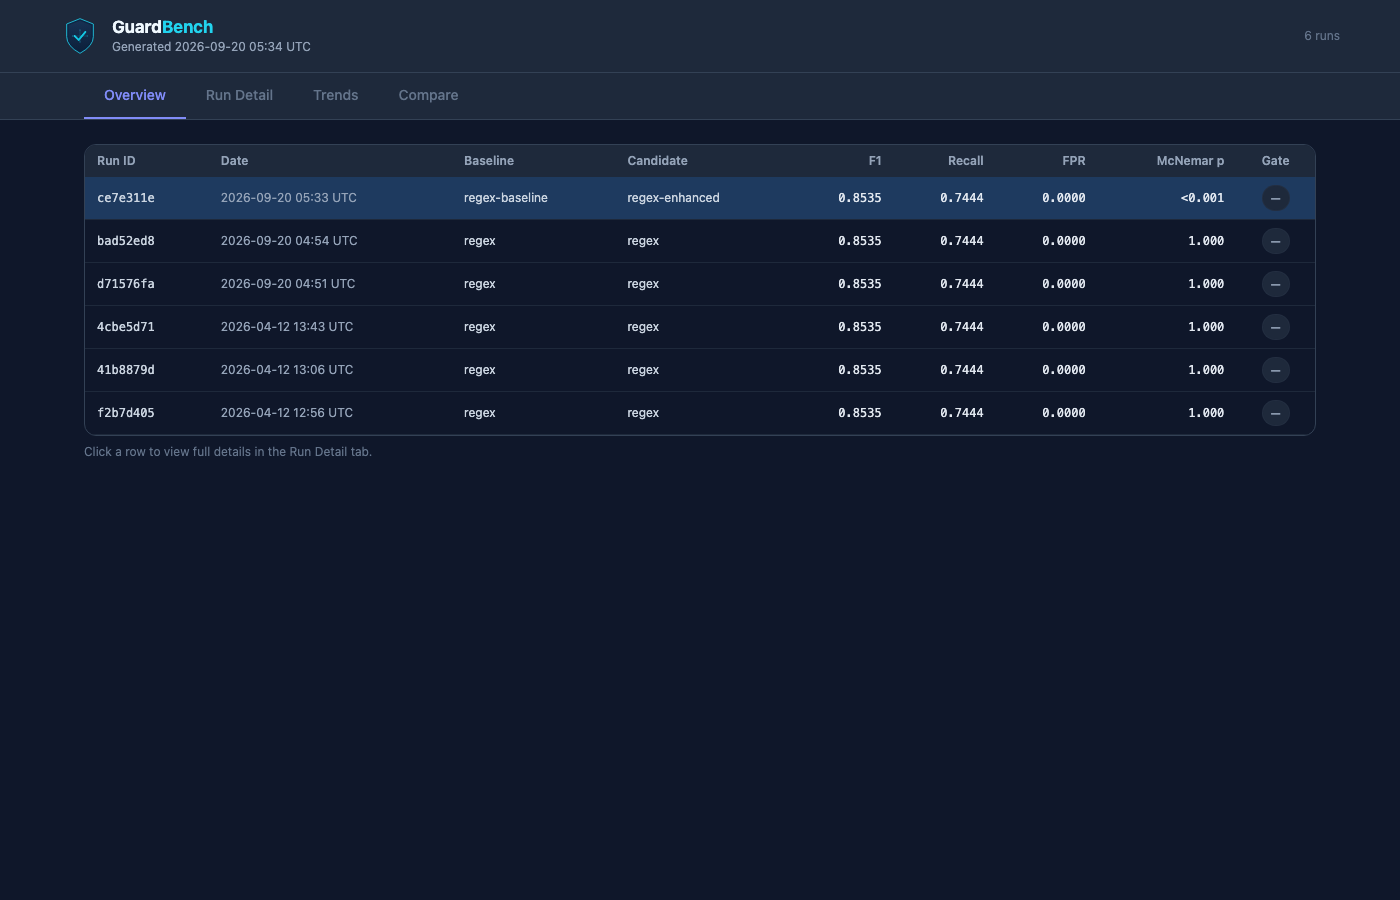
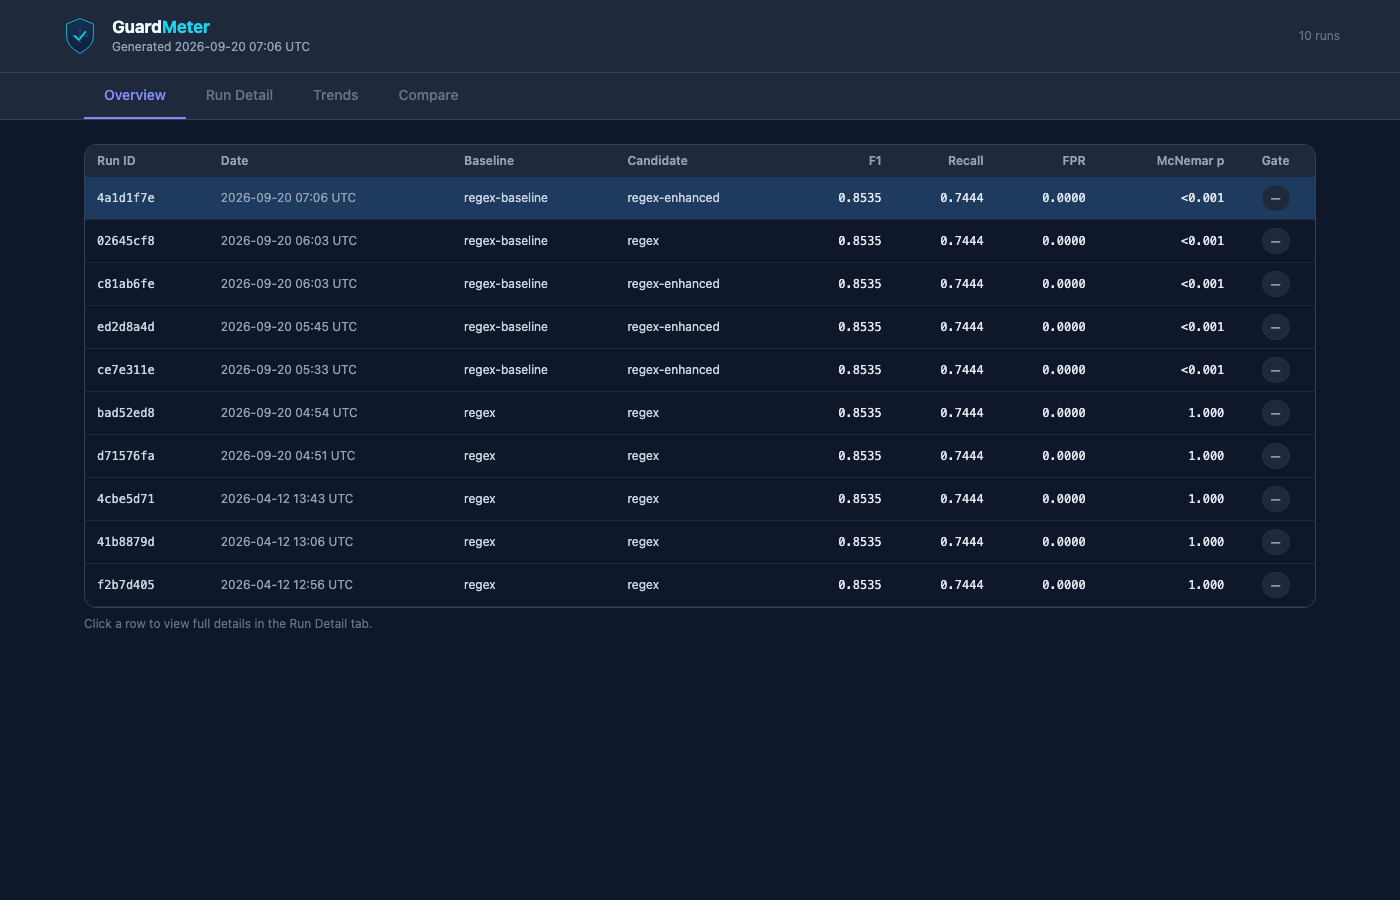
docs: GuardMeter naming throughout; 0.3.0 changelog; refreshed screenshot
Rename all guardbench/sea-guard references in README, CONTRIBUTING,
CLAUDE.md, and .gitignore to guardmeter/GuardMeter; point the README
badges and image URLs at samvardani/guardmeter. Add the 'Formerly
published as sea-guard' note and keep the unrelated JRC GuardBench
references intact. Fold everything since 0.2.1 into a 0.3.0 changelog
entry and re-capture the dashboard screenshot with the GuardMeter
header.

diff --git a/README.md b/README.md
@@ -1,27 +1,27 @@
-<p align="center"><img src="https://raw.githubusercontent.com/samvardani/GuardBench/main/branding/guardbench-wordmark.svg" alt="GuardBench" width="440"/></p>
+<p align="center"><img src="https://raw.githubusercontent.com/samvardani/guardmeter/main/branding/guardmeter-wordmark.svg" alt="GuardMeter" width="440"/></p>
 
-<p align="center"><img src="https://raw.githubusercontent.com/samvardani/GuardBench/main/docs/images/dashboard.png" alt="GuardBench dashboard" width="800"/></p>
+<p align="center"><img src="https://raw.githubusercontent.com/samvardani/guardmeter/main/docs/images/dashboard.png" alt="GuardMeter dashboard" width="800"/></p>
 
-# sea-guard — AI Safety Guard Evaluation Framework
+# GuardMeter — AI Safety Guard Evaluation Framework
 
-[![CI](https://github.com/samvardani/GuardBench/actions/workflows/guardbench-eval.yml/badge.svg)](https://github.com/samvardani/GuardBench/actions)
-[![PyPI](https://img.shields.io/pypi/v/sea-guard)](https://pypi.org/project/sea-guard/)
+[![CI](https://github.com/samvardani/guardmeter/actions/workflows/ci.yml/badge.svg)](https://github.com/samvardani/guardmeter/actions)
+[![PyPI](https://img.shields.io/pypi/v/guardmeter)](https://pypi.org/project/guardmeter/)
 [![Python 3.11+](https://img.shields.io/badge/python-3.11+-blue.svg)](https://www.python.org/)
 [![License: MIT](https://img.shields.io/badge/License-MIT-green.svg)](LICENSE)
 
-sea-guard compares two content-safety guards — a **baseline** and a **candidate** — on a labeled dataset and produces per-slice metrics, an HTML report, an interactive dashboard, and a pass/fail CI gate. It's for developers and ML engineers who ship a safety classifier and need to catch regressions — per category, language, and attack type — before they merge.
+GuardMeter compares two content-safety guards — a **baseline** and a **candidate** — on a labeled dataset and produces per-slice metrics, an HTML report, an interactive dashboard, and a pass/fail CI gate. It's for developers and ML engineers who ship a safety classifier and need to catch regressions — per category, language, and attack type — before they merge.
 
 ---
 
 ## 30-second demo
 
-On a fresh `pip install sea-guard`, these commands run verbatim:
+On a fresh `pip install guardmeter`, these commands run verbatim:
 
 ```bash
-guardbench init
-guardbench compare --baseline regex-baseline --candidate regex-enhanced --dataset dataset/sample.csv
-guardbench gate --config gate.json --run latest
-guardbench dashboard --open
+guardmeter init
+guardmeter compare --baseline regex-baseline --candidate regex-enhanced --dataset dataset/sample.csv
+guardmeter gate --config gate.json --run latest
+guardmeter dashboard --open
 ```
 
 `init` writes `gate.json` and `dataset/sample.csv` into the current directory. `compare` evaluates both guards and stores the run. `gate` checks the latest run against `gate.json` and exits non-zero on failure. `dashboard` builds `report/dashboard.html` (`--open` launches your browser; omit it or pass `--no-open` in CI).
@@ -30,11 +30,11 @@ guardbench dashboard --open
 
 ## How it works
 
-**Baseline vs candidate.** You give sea-guard two guards. The baseline is your current behavior; the candidate is the change you're evaluating. Every metric is reported for both so you can see whether the candidate actually improved things.
+**Baseline vs candidate.** You give GuardMeter two guards. The baseline is your current behavior; the candidate is the change you're evaluating. Every metric is reported for both so you can see whether the candidate actually improved things.
 
 **Strict vs lenient policy.** Each dataset row is labeled `benign`, `borderline`, or `unsafe`. Under the **strict** policy a `borderline` row counts as something the guard *should* flag (positive); under the **lenient** policy `borderline` counts as benign (negative). Both policies are always computed; the dashboard has a toggle, and the gate/McNemar test use strict by default.
 
-**Slices.** Aggregate numbers hide regressions. sea-guard computes recall, FPR, precision, F1 and latency for every `(category × language)` slice, and separately for every `attack_type` slice, so a drop confined to (say) Farsi violence or leetspeak-obfuscated prompts is visible.
+**Slices.** Aggregate numbers hide regressions. GuardMeter computes recall, FPR, precision, F1 and latency for every `(category × language)` slice, and separately for every `attack_type` slice, so a drop confined to (say) Farsi violence or leetspeak-obfuscated prompts is visible.
 
 **Significance and confidence.** A McNemar test on the paired predictions tells you whether the baseline↔candidate difference is real or noise. Recall and FPR come with Wilson score confidence intervals so small slices aren't over-interpreted.
 
@@ -42,7 +42,7 @@ guardbench dashboard --open
 
 ## CI gate
 
-`gate.json` is a machine-readable safety policy you check into version control. `guardbench gate` loads a stored run and fails the build if any threshold is breached.
+`gate.json` is a machine-readable safety policy you check into version control. `guardmeter gate` loads a stored run and fails the build if any threshold is breached.
 
 ```json
 {
@@ -79,14 +79,14 @@ The per-slice overrides in the shipped `gate.json` reflect the known limits of t
 GitHub Actions:
 
 ```yaml
-- name: Install sea-guard
-  run: pip install sea-guard
+- name: Install guardmeter
+  run: pip install guardmeter
 - name: Evaluate
-  run: guardbench compare --baseline regex-baseline --candidate ${{ env.CANDIDATE_GUARD }} --dataset dataset/sample.csv
+  run: guardmeter compare --baseline regex-baseline --candidate ${{ env.CANDIDATE_GUARD }} --dataset dataset/sample.csv
 - name: Report
-  run: guardbench report --run latest
+  run: guardmeter report --run latest
 - name: Safety gate
-  run: guardbench gate --config gate.json --run latest   # exits 1 on regression
+  run: guardmeter gate --config gate.json --run latest   # exits 1 on regression
 - name: Upload report
   uses: actions/upload-artifact@v4
   with:
@@ -103,14 +103,14 @@ GitHub Actions:
 | `regex-baseline` | built-in | Simple keyword-matching profile — the weak baseline to compare against |
 | `regex-enhanced` | built-in | Expanded patterns, obfuscation detection, Farsi coverage |
 | `regex` | built-in | Alias of `regex-enhanced` (kept for backward compatibility) |
-| `openai` | `pip install sea-guard[llm]` + `OPENAI_API_KEY` | OpenAI Moderation API (experimental — see below) |
+| `openai` | `pip install guardmeter[llm]` + `OPENAI_API_KEY` | OpenAI Moderation API (experimental — see below) |
 | `llamaguard` | HuggingFace `transformers` or an HTTP endpoint | Llama Guard 3, local pipeline or hosted API (experimental — see below) |
 
 ### Write your own guard
 
 ```python
-from guardbench.core.guard import Guard, GuardResult
-from guardbench.core.registry import register
+from guardmeter.core.guard import Guard, GuardResult
+from guardmeter.core.registry import register
 
 class MyGuard(Guard):
     name = "my-guard"
@@ -128,9 +128,9 @@ register("my-guard", MyGuard)  # now usable as --candidate my-guard
 
 ## Dashboard & report
 
-`guardbench report --run latest` writes an HTML report for a single run (baseline vs candidate cards with Wilson CIs, category×language and attack-type slice tables, a real candidate threshold-sweep chart, and per-sample latency charts). It also mentions an informational regulatory mapping — see the note under *Experimental*.
+`guardmeter report --run latest` writes an HTML report for a single run (baseline vs candidate cards with Wilson CIs, category×language and attack-type slice tables, a real candidate threshold-sweep chart, and per-sample latency charts). It also mentions an informational regulatory mapping — see the note under *Experimental*.
 
-`guardbench dashboard` builds an interactive multi-run dashboard (`report/dashboard.html`), also auto-rebuilt on every `report`. Four tabs:
+`guardmeter dashboard` builds an interactive multi-run dashboard (`report/dashboard.html`), also auto-rebuilt on every `report`. Four tabs:
 
 - **Overview** — run history table with F1, recall, FPR, McNemar p-value and gate badges. Click a row to drill in.
 - **Run Detail** — baseline vs candidate metric cards, category×language and attack-type slice tables, and a sample-results table (first 200 rows). Strict/Lenient toggle.
@@ -143,9 +143,9 @@ register("my-guard", MyGuard)  # now usable as --candidate my-guard
 
 These features work but require API keys or extra dependencies and have limited automated test coverage. Treat them as advisory:
 
-- **LLM-as-judge** (`guardbench/judge/`) — uses Claude or an OpenAI model as a second opinion on predictions. Available through the Python API only (no CLI subcommand); needs a provider API key.
-- **`openai` guard** — calls the OpenAI Moderation API; needs `sea-guard[llm]` and `OPENAI_API_KEY`.
-- **`llamaguard` guard** — runs Llama Guard 3 via a local `transformers` pipeline or an HTTP endpoint; needs `sea-guard[hf]` or a hosted endpoint and key.
+- **LLM-as-judge** (`guardmeter/judge/`) — uses Claude or an OpenAI model as a second opinion on predictions. Available through the Python API only (no CLI subcommand); needs a provider API key.
+- **`openai` guard** — calls the OpenAI Moderation API; needs `guardmeter[llm]` and `OPENAI_API_KEY`.
+- **`llamaguard` guard** — runs Llama Guard 3 via a local `transformers` pipeline or an HTTP endpoint; needs `guardmeter[hf]` or a hosted endpoint and key.
 - **Regulatory mapping (informational).** The HTML report includes a table mapping a run's metrics to regulatory themes (e.g. EU AI Act articles, NIST AI RMF). It is an informational aid for your own documentation, **not** a compliance certification or legal assessment.
 
 ---
@@ -156,9 +156,9 @@ These features work but require API keys or extra dependencies and have limited 
 python3.13 -m venv .venv
 source .venv/bin/activate      # Windows: .venv\Scripts\activate
 pip install -e ".[dev]"
-ruff check guardbench tests
-mypy guardbench
-pytest tests/guardbench/ -q
+ruff check guardmeter tests
+mypy guardmeter
+pytest tests/guardmeter/ -q
 ```
 
 > **Note:** macOS users with Homebrew Python must use a virtual environment (Homebrew enforces PEP 668).
@@ -168,6 +168,8 @@ pytest tests/guardbench/ -q
 ## Not affiliated with
 
 This project is unrelated to the JRC "GuardBench" toxicity-benchmark library at [github.com/AmenRa/guardbench](https://github.com/AmenRa/guardbench). Same name, different project.
+
+Formerly published as `sea-guard` (versions 0.1–0.2, import name `guardbench`). Renamed in 0.3.0 to avoid confusion with the unrelated JRC GuardBench benchmark.
 
 ---
 
@@ -183,9 +185,9 @@ MIT — see [LICENSE](LICENSE).
 
 Logo assets are in the `branding/` directory.
 
-- `guardbench-logo.svg` — shield mark (favicon, PyPI, GitHub avatar)
-- `guardbench-wordmark.svg` — full lockup with tagline
-- `guardbench-social-card.svg` — 1280×640 OG image for GitHub social preview
+- `guardmeter-logo.svg` — shield mark (favicon, PyPI, GitHub avatar)
+- `guardmeter-wordmark.svg` — full lockup with tagline
+- `guardmeter-social-card.svg` — 1280×640 OG image for GitHub social preview
 
 ---
 

diff --git a/CONTRIBUTING.md b/CONTRIBUTING.md
@@ -1,46 +1,46 @@
-# Contributing to GuardBench
+# Contributing to GuardMeter
 
 Thanks for your interest. Bug reports, guard adapters, dataset improvements, and docs fixes are all welcome.
 
 ## Development setup
 
 ```bash
-git clone https://github.com/samvardani/GuardBench.git
-cd GuardBench
+git clone https://github.com/samvardani/GuardMeter.git
+cd GuardMeter
 python3 -m venv .venv
 source .venv/bin/activate      # Windows: .venv\Scripts\activate
 pip install -e ".[dev]"
-pytest tests/guardbench/ -q
+pytest tests/guardmeter/ -q
 ```
 
 All dependencies live in `pyproject.toml`. There are no `requirements*.txt` files.
 
 ## Before opening a PR
 
-- `pytest tests/guardbench/ -q` passes
-- `ruff check guardbench tests` passes
-- `mypy guardbench` passes (or the failure is pre-existing and noted in the PR)
+- `pytest tests/guardmeter/ -q` passes
+- `ruff check guardmeter tests` passes
+- `mypy guardmeter` passes (or the failure is pre-existing and noted in the PR)
 - If you changed evaluation or gate behaviour, run the full pipeline once:
 
   ```bash
-  guardbench compare --baseline regex-baseline --candidate regex-enhanced --dataset dataset/sample.csv
-  guardbench report --run latest
-  guardbench gate --config gate.json --run latest
+  guardmeter compare --baseline regex-baseline --candidate regex-enhanced --dataset dataset/sample.csv
+  guardmeter report --run latest
+  guardmeter gate --config gate.json --run latest
   ```
 
 - Add a line to `CHANGELOG.md` under an `[Unreleased]` heading
 
 ## Adding a guard
 
-Subclass `guardbench.core.guard.Guard`, implement `classify(text) -> GuardResult`, and register it:
+Subclass `guardmeter.core.guard.Guard`, implement `classify(text) -> GuardResult`, and register it:
 
 ```python
-from guardbench.core.registry import register
+from guardmeter.core.registry import register
 register("my-guard", MyGuard)
 ```
 
-Third-party packages can expose guards through the `guardbench.guards` entry-point group so they resolve by name without any import.
+Third-party packages can expose guards through the `guardmeter.guards` entry-point group so they resolve by name without any import.
 
 ## Releases
 
-Maintainers cut releases by bumping the version in `pyproject.toml` and `guardbench/__init__.py`, updating `CHANGELOG.md`, and pushing a `vX.Y.Z` tag. The `release.yml` workflow builds, publishes to PyPI via trusted publishing, and creates the GitHub release.
+Maintainers cut releases by bumping the version in `pyproject.toml` and `guardmeter/__init__.py`, updating `CHANGELOG.md`, and pushing a `vX.Y.Z` tag. The `release.yml` workflow builds, publishes to PyPI via trusted publishing, and creates the GitHub release.

diff --git a/CLAUDE.md b/CLAUDE.md
@@ -1,12 +1,12 @@
-# GuardBench — Claude Code Project Memory
+# GuardMeter — Claude Code Project Memory
 
 ## What this project is
 AI safety guard evaluation framework. Compares a baseline guard vs a candidate guard
 on labeled datasets. Outputs per-slice metrics, HTML report, and CI gate (pass/fail).
 
 ## Package being built
-- Source of truth: `guardbench/` package (refactored from `src/`)
-- CLI entry point: `guardbench` (via click)
+- Source of truth: `guardmeter/` package (refactored from `src/`)
+- CLI entry point: `guardmeter` (via click)
 - Install: `pip install -e ".[dev]"`
 
 ## Key architectural decisions
@@ -21,7 +21,7 @@ on labeled datasets. Outputs per-slice metrics, HTML report, and CI gate (pass/f
 - src/runner/run_compare.py → Evaluator class
 - src/report/build_report.py → ReportGenerator class
 - src/runner/ci_gate.py → GateChecker class
-- templates/report.html → guardbench/report/templates/report.html
+- templates/report.html → guardmeter/report/templates/report.html
 
 ## Do not delete src/ until Phase 9 tests pass
 
@@ -32,5 +32,5 @@ on labeled datasets. Outputs per-slice metrics, HTML report, and CI gate (pass/f
 - run_compare.py imports guards by hardcoded path — the whole point of Phase 2 is to fix this
 
 ## Tests location
-- New guardbench tests live in `tests/guardbench/`
-- Run with: `pytest tests/guardbench/ --cov=guardbench`
+- New guardmeter tests live in `tests/guardmeter/`
+- Run with: `pytest tests/guardmeter/ --cov=guardmeter`

diff --git a/CHANGELOG.md b/CHANGELOG.md
@@ -1,5 +1,31 @@
 # Changelog
 
+## [0.3.0] - 2026-09-20
+### Changed
+- **Renamed** to GuardMeter: PyPI `guardmeter`, import `guardmeter`, CLI
+  `guardmeter` (was sea-guard / guardbench). Run history migrates
+  automatically from ~/.guardbench to ~/.guardmeter.
+- Gate: native `global_thresholds` / `slices` schema with per-slice and
+  attack-type overrides; enforces `min_f1` by default.
+- README: verbatim-runnable quickstart demo and an honest, accurate
+  feature list.
+- CLI: `init` scaffolds a working project (calibrated `gate.json` +
+  sample dataset) so the quickstart demo passes as written.
+### Added
+- Real charts in the report: candidate threshold-sweep and per-sample
+  latency histograms computed from actual run scores.
+- Attack-type slices across the evaluator, report, dashboard, and gate.
+- Benign-adjacent dataset rows (en + fa) so false-positive rate is
+  measurable.
+- `ruff` and `mypy` gates enforced in CI (zero findings required).
+### Fixed
+- SQLite store now persists and reads back per-sample results instead of
+  dropping them.
+- `init` writes the calibrated `gate.json`, so the quickstart demo gates
+  green verbatim.
+### Security
+- Report and dashboard now escape all user-originated values.
+
 ## [0.2.1] - 2026-09-20
 ### Fixed
 - PyPI project page was blank (no readme in package metadata)
